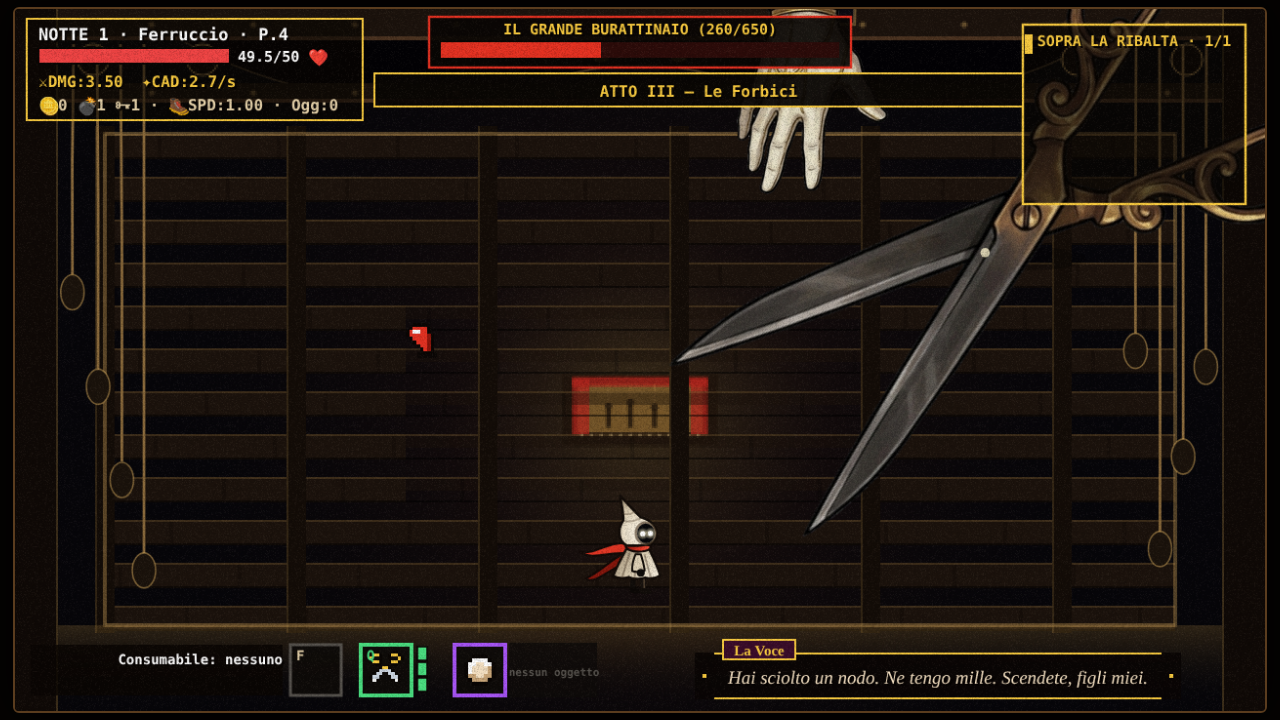
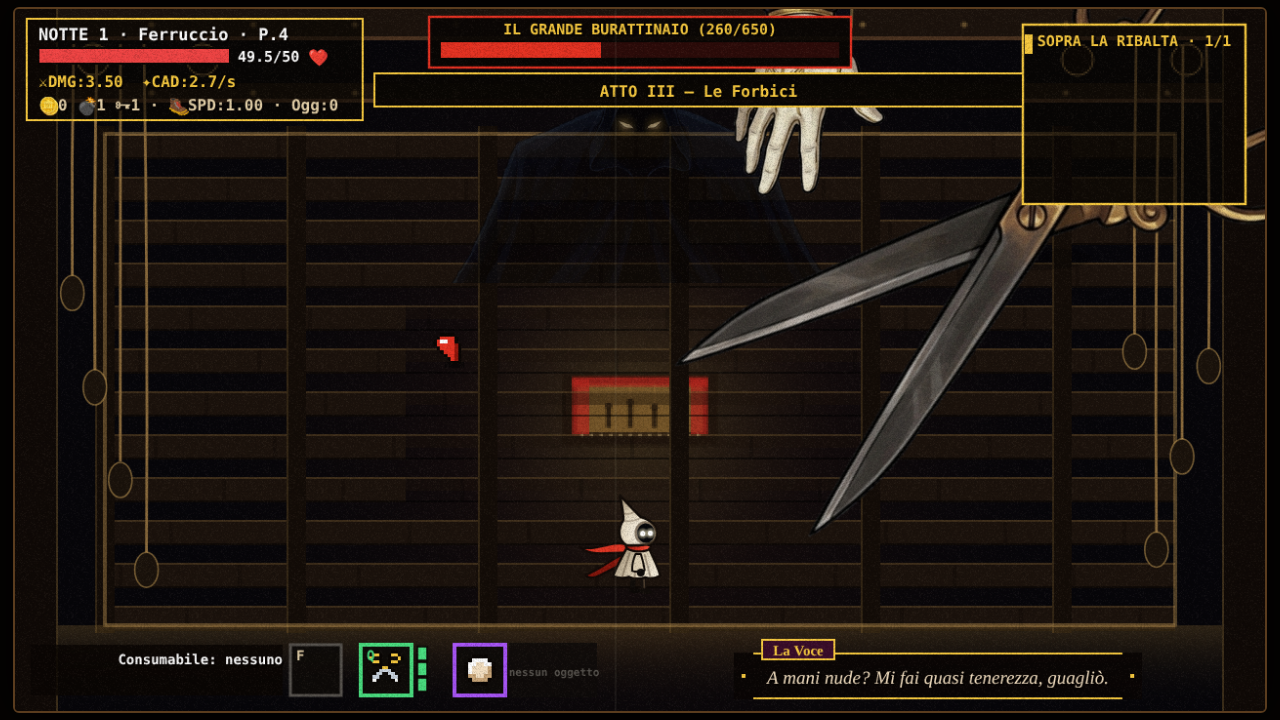
fix(teatro): le parti del Grande Burattinaio restano sotto i riquadri dell'HUD
Mani, forbici ed effetti di caduta si ritagliano fuori da statistiche, barra della
vita, minimappa e banner (riquadri semitrasparenti): niente manici visti attraverso.

Claude-Session: https://claude.ai/code/session_01F5x6kDAQ4qaiYDiFx9jQb5

diff --git a/gioco/teatro/d1-burattinaio.js b/gioco/teatro/d1-burattinaio.js
@@ -762,6 +762,19 @@ disegnaFiliMarionetta = function (...args) {
   return disegnaFiliMarionettaBaseD1.apply(this, args);
 };
 
+/**
+ * Riquadri dell'HUD sotto cui le parti del Burattinaio non si disegnano (stesse misure di 60-resa.js ›
+ * disegnaHUDPixelArt): statistiche, barra della vita, minimappa e, finché c'è, il banner.
+ * @returns {number[][]} [x, y, w, h] in coordinate logiche
+ */
+function zoneHudD1() {
+  const z = [[6, 5, 172, 52], [W / 2 - 108, 4, 216, 26], [W - 124, 8, 114, 92]];
+  try {
+    if (statoRun.bannerTimer > 0 && typeof STANZE_C !== 'undefined' && STANZE_C.banner) { const b = STANZE_C.banner; z.push([b.x, b.y, b.w, b.h]); }
+  } catch (_) { /* banner assente */ }
+  return z;
+}
+
 const disegnaHUDPixelArtBaseD1 = disegnaHUDPixelArt;
 /** Prima dell'HUD: effetti di caduta, fili che cadono a vittoria. */
 disegnaHUDPixelArt = function (...args) {
@@ -769,8 +782,15 @@ disegnaHUDPixelArt = function (...args) {
     if (statoRun.stanzaCorrente && statoRun.stanzaCorrente.arenaD1) {
       // forbici sotto, mani sopra (calano dall'alto); per y crescente fra le mani
       const parti = (partiDaDisegnareD1 || []).slice().sort((a, b) => (a.bossId === 'gb-forbici' ? -1 : 0) - (b.bossId === 'gb-forbici' ? -1 : 0) || a.y - b.y);
-      for (const n of parti) { if (n.bossId === 'gb-mano') disegnaManoD1(n); else disegnaForbiciD1(n); }
-      disegnaEffettiD1();
+      // i riquadri dell'HUD sono semitrasparenti: le parti (enormi) non devono vedersi attraverso
+      ctx.save();
+      ctx.beginPath(); ctx.rect(0, 0, W, H);
+      for (const [x, y, w, h] of zoneHudD1()) ctx.rect(x, y, w, h);
+      ctx.clip('evenodd');
+      try {
+        for (const n of parti) { if (n.bossId === 'gb-mano') disegnaManoD1(n); else disegnaForbiciD1(n); }
+        disegnaEffettiD1();
+      } finally { ctx.restore(); }
     }
   } catch (err) { console.error('[D1] effetti', err); }
   return disegnaHUDPixelArtBaseD1.apply(this, args);
